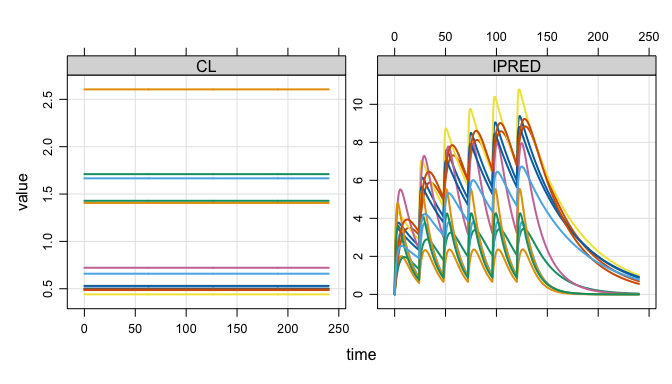
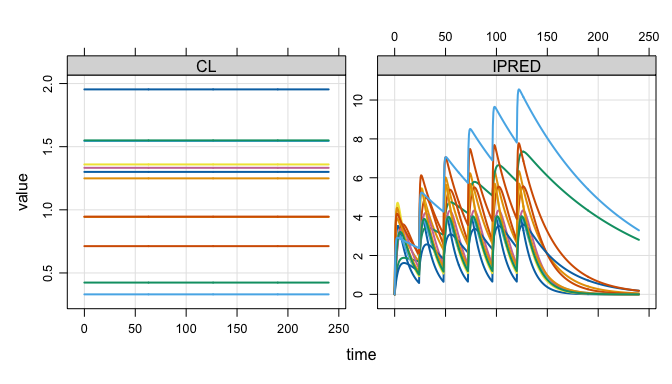
last readme

diff --git a/README.md b/README.md
@@ -29,7 +29,7 @@ library(dplyr)
 
 mod <- modlib_ds("popex", end = 240, outvars = c("IPRED,CL"))
 
-data <- expand.ev(amt = 100, ii = 24, total = 6, ID = 1:1000)
+data <- expand.ev(amt = 100, ii = 24, total = 6, ID = 1:3000)
 ```
 
 mrgsim.ds provides a new `mrgsim()` variant - `mrgsim_ds()`:
@@ -39,17 +39,17 @@ out <- mrgsim_ds(mod, data)
 
 out
 . Model: popex
-. Dim  : 482.0K 4
-. Files: 1 [4.1 Mb]
-.     ID time        CL    IPRED
-. 1:   1  0.0 0.5023461 0.000000
-. 2:   1  0.0 0.5023461 0.000000
-. 3:   1  0.5 0.5023461 1.761039
-. 4:   1  1.0 0.5023461 2.736933
-. 5:   1  1.5 0.5023461 3.269940
-. 6:   1  2.0 0.5023461 3.553198
-. 7:   1  2.5 0.5023461 3.695697
-. 8:   1  3.0 0.5023461 3.758940
+. Dim  : 1.4M 4
+. Files: 1 [11.9 Mb]
+.     ID time       CL    IPRED
+. 1:   1  0.0 1.953717 0.000000
+. 2:   1  0.0 1.953717 0.000000
+. 3:   1  0.5 1.953717 1.419314
+. 4:   1  1.0 1.953717 2.340898
+. 5:   1  1.5 1.953717 2.919591
+. 6:   1  2.0 1.953717 3.262844
+. 7:   1  2.5 1.953717 3.445188
+. 8:   1  3.0 1.953717 3.518285
 ```
 
 The output object doesn’t actually carry the simulated data, but rather
@@ -57,7 +57,7 @@ a pointer to the data in parquet files on your disk.
 
 ``` r
 out$files
-. [1] "/private/var/folders/zv/v6tkdhrn1_bb1ndrc0c0j31w0000gp/T/RtmpLImC8l/mrgsims-ds-871d3dccd5ee.parquet"
+. [1] "/private/var/folders/zv/v6tkdhrn1_bb1ndrc0c0j31w0000gp/T/Rtmpb0nTjd/mrgsims-ds-899f7763ffb8.parquet"
 ```
 
 This means there is almost nothing inside the object itself
@@ -66,7 +66,7 @@ This means there is almost nothing inside the object itself
 lobstr:::obj_size(out)
 . 292.09 kB
 dim(out)
-. [1] 482000      4
+. [1] 1446000       4
 ```
 
 What if we did the same simulation with regular `mrgsim()`?
@@ -75,9 +75,9 @@ What if we did the same simulation with regular `mrgsim()`?
 x <- mrgsim(mod, data)
 
 lobstr::obj_size(x)
-. 15.45 MB
+. 46.30 MB
 dim(x)
-. [1] 482000      4
+. [1] 1446000       4
 ```
 
 The object is very light weight despite carrying the same data.
@@ -96,24 +96,24 @@ head(out)
 . # A tibble: 6 × 4
 .      ID  time    CL IPRED
 .   <dbl> <dbl> <dbl> <dbl>
-. 1     1   0   0.502  0   
-. 2     1   0   0.502  0   
-. 3     1   0.5 0.502  1.76
-. 4     1   1   0.502  2.74
-. 5     1   1.5 0.502  3.27
-. 6     1   2   0.502  3.55
+. 1     1   0    1.95  0   
+. 2     1   0    1.95  0   
+. 3     1   0.5  1.95  1.42
+. 4     1   1    1.95  2.34
+. 5     1   1.5  1.95  2.92
+. 6     1   2    1.95  3.26
 tail(out)
 . # A tibble: 6 × 4
-.      ID  time    CL  IPRED
-.   <dbl> <dbl> <dbl>  <dbl>
-. 1  1000  238.  1.29 0.0796
-. 2  1000  238   1.29 0.0782
-. 3  1000  238.  1.29 0.0769
-. 4  1000  239   1.29 0.0755
-. 5  1000  240.  1.29 0.0742
-. 6  1000  240   1.29 0.0729
+.      ID  time    CL IPRED
+.   <dbl> <dbl> <dbl> <dbl>
+. 1  3000  238. 0.493 0.170
+. 2  3000  238  0.493 0.167
+. 3  3000  238. 0.493 0.164
+. 4  3000  239  0.493 0.161
+. 5  3000  240. 0.493 0.158
+. 6  3000  240  0.493 0.155
 dim(out)
-. [1] 482000      4
+. [1] 1446000       4
 ```
 
 This includes coercing to different types of objects. We can get the
@@ -121,20 +121,20 @@ usual R data frames
 
 ``` r
 as_tibble(out)
-. # A tibble: 482,000 × 4
+. # A tibble: 1,446,000 × 4
 .       ID  time    CL IPRED
 .    <dbl> <dbl> <dbl> <dbl>
-.  1     1   0   0.502  0   
-.  2     1   0   0.502  0   
-.  3     1   0.5 0.502  1.76
-.  4     1   1   0.502  2.74
-.  5     1   1.5 0.502  3.27
-.  6     1   2   0.502  3.55
-.  7     1   2.5 0.502  3.70
-.  8     1   3   0.502  3.76
-.  9     1   3.5 0.502  3.78
-. 10     1   4   0.502  3.77
-. # ℹ 481,990 more rows
+.  1     1   0    1.95  0   
+.  2     1   0    1.95  0   
+.  3     1   0.5  1.95  1.42
+.  4     1   1    1.95  2.34
+.  5     1   1.5  1.95  2.92
+.  6     1   2    1.95  3.26
+.  7     1   2.5  1.95  3.45
+.  8     1   3    1.95  3.52
+.  9     1   3.5  1.95  3.52
+. 10     1   4    1.95  3.47
+. # ℹ 1,445,990 more rows
 ```
 
 Or stay in the arrow ecosystem
@@ -174,14 +174,14 @@ collect(dd)
 .    <dbl> <dbl>
 .  1   0    0   
 .  2   0.5  1.10
-.  3   1    1.79
-.  4   1.5  2.26
-.  5   2    2.57
-.  6   2.5  2.79
+.  3   1    1.80
+.  4   1.5  2.27
+.  5   2    2.58
+.  6   2.5  2.80
 .  7   3    2.94
 .  8   3.5  3.04
-.  9  16.5  2.21
-. 10  17.5  2.13
+.  9  16.5  2.19
+. 10  17.5  2.11
 . # ℹ 471 more rows
 ```
 
@@ -194,37 +194,35 @@ library(future.apply)
 
 plan(multisession, workers = 5L)
 
-out2 <- future_lapply(1:10, \(x) {
-  mrgsim_ds(mod, data)  
-}, future.seed = TRUE)
+out2 <- future_lapply(1:10, \(x) { mrgsim_ds(mod, data) }, future.seed = TRUE)
 
 out2 <- reduce_ds(out2)
 
 out2
 . Model: popex
-. Dim  : 4.8M 4
-. Files: 10 [40.7 Mb]
-.     ID time        CL     IPRED
-. 1:   1  0.0 0.5439483 0.0000000
-. 2:   1  0.0 0.5439483 0.0000000
-. 3:   1  0.5 0.5439483 0.5103261
-. 4:   1  1.0 0.5439483 0.9546902
-. 5:   1  1.5 0.5439483 1.3409097
-. 6:   1  2.0 0.5439483 1.6758834
-. 7:   1  2.5 0.5439483 1.9656988
-. 8:   1  3.0 0.5439483 2.2157278
+. Dim  : 14.5M 4
+. Files: 10 [119.1 Mb]
+.     ID time        CL    IPRED
+. 1:   1  0.0 0.4453814 0.000000
+. 2:   1  0.0 0.4453814 0.000000
+. 3:   1  0.5 0.4453814 1.205096
+. 4:   1  1.0 0.4453814 2.088543
+. 5:   1  1.5 0.4453814 2.732958
+. 6:   1  2.0 0.4453814 3.199767
+. 7:   1  2.5 0.4453814 3.534646
+. 8:   1  3.0 0.4453814 3.771554
 ```
 
 All arrow files are stored in the tempdir in parquet format
 
 ``` r
 list_temp()
-. 11 files [44.7 Mb]
-. - mrgsims-ds-871d3dccd5ee.parquet
-. - mrgsims-ds-875a32394d6c.parquet
+. 11 files [131.1 Mb]
+. - mrgsims-ds-899f7763ffb8.parquet
+. - mrgsims-ds-89dc2697d7f6.parquet
 .    ...
-. - mrgsims-ds-875e61e66c22.parquet
-. - mrgsims-ds-875e64740858.parquet
+. - mrgsims-ds-89e01f93072b.parquet
+. - mrgsims-ds-89e0580a9845.parquet
 ```
 
 This directory is eventually removed when the R session ends. Tools are
@@ -235,12 +233,12 @@ retain_temp(out2)
 . Discarding 1 files.
 
 list_temp()
-. 10 files [40.7 Mb]
-. - mrgsims-ds-875a32394d6c.parquet
-. - mrgsims-ds-875ad75a262.parquet
+. 10 files [119.1 Mb]
+. - mrgsims-ds-89dc2697d7f6.parquet
+. - mrgsims-ds-89dc332687b6.parquet
 .    ...
-. - mrgsims-ds-875e61e66c22.parquet
-. - mrgsims-ds-875e64740858.parquet
+. - mrgsims-ds-89e01f93072b.parquet
+. - mrgsims-ds-89e0580a9845.parquet
 ```
 
 We also put a finalizer on each object so that, when it goes out of
@@ -254,9 +252,7 @@ plan(multisession, workers = 5L)
 
 out1 <- mrgsim_ds(mod, data) %>% rename_ds("out1")
 
-out2 <- future_lapply(1:10, \(x) {
-  mrgsim_ds(mod, data)  
-}, future.seed = TRUE)
+out2 <- future_lapply(1:10, \(x) { mrgsim_ds(mod, data) }, future.seed = TRUE)
 
 out2 <- reduce_ds(out2) %>% rename_ds("out2")
 
@@ -265,7 +261,7 @@ out3 <- mrgsim_ds(mod, data) %>% rename_ds("out3")
 
 ``` r
 list_temp()
-. 12 files [48.8 Mb]
+. 12 files [143 Mb]
 . - mrgsims-ds-out1-0001.parquet
 . - mrgsims-ds-out2-0001.parquet
 .    ...
@@ -280,12 +276,12 @@ cleaned up.
 
 ``` r
 gc()
-.           used (Mb) gc trigger  (Mb) limit (Mb) max used  (Mb)
-. Ncells 1695952 90.6    2815062 150.4         NA  2815062 150.4
-. Vcells 7036759 53.7   14597925 111.4      16384 11090570  84.7
+.            used  (Mb) gc trigger  (Mb) limit (Mb) max used  (Mb)
+. Ncells  1695948  90.6    3059967 163.5         NA  2673065 142.8
+. Vcells 14761732 112.7   30249854 230.8      16384 26543820 202.6
 
 list_temp()
-. 2 files [8.1 Mb]
+. 2 files [23.8 Mb]
 . - mrgsims-ds-out1-0001.parquet
 . - mrgsims-ds-out3-0001.parquet
 ```
